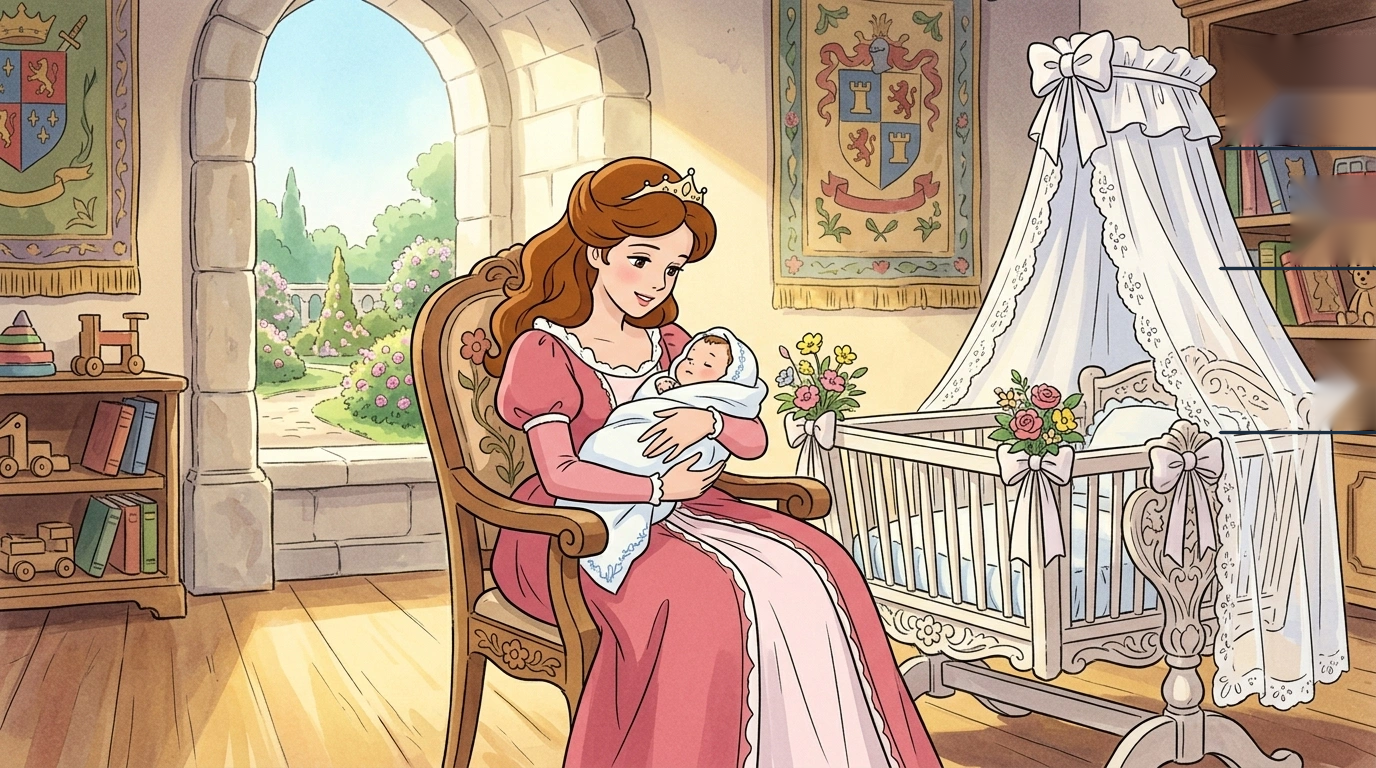
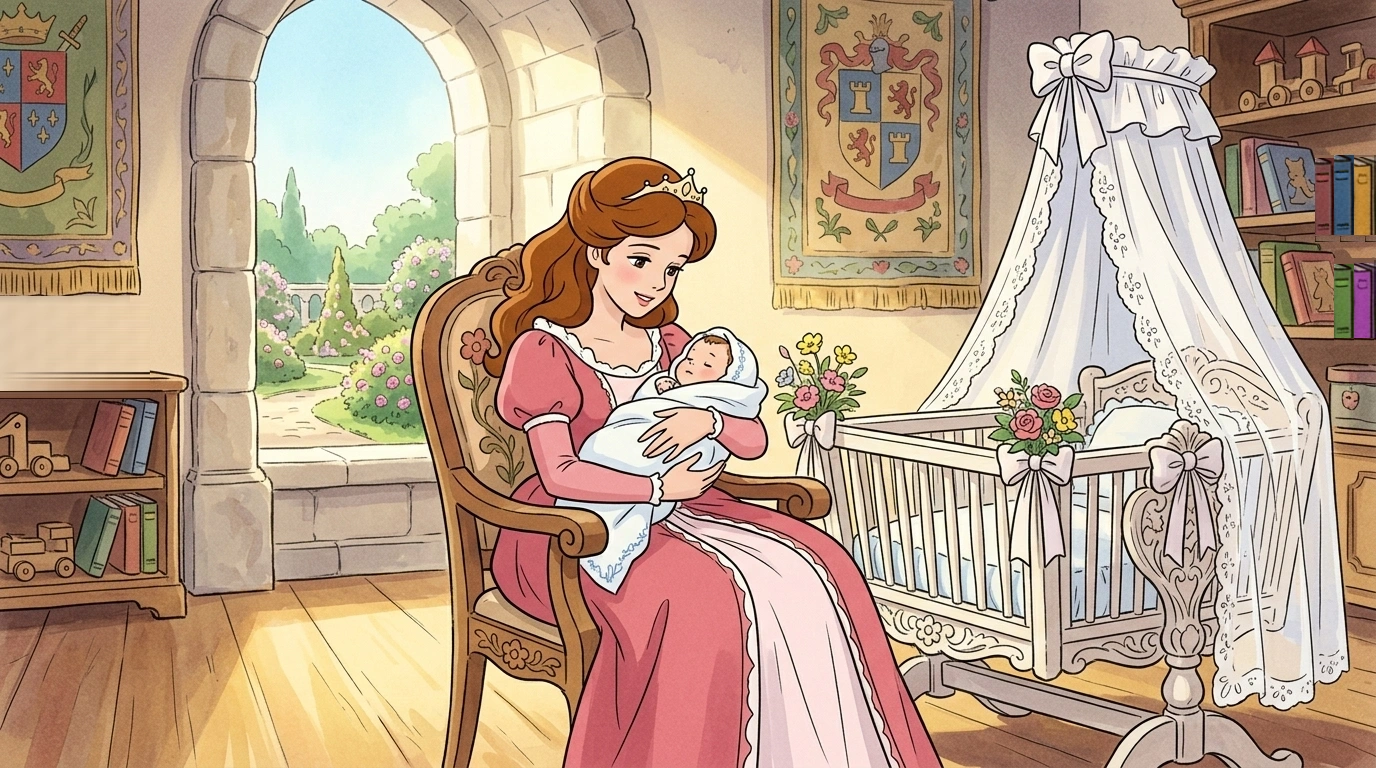
fix(rumpelstiltskin): replace modern toys in 05-promise-2 with antique leatherbound books and clean medieval nursery shelves

Changed region(s): [[0.875, 0.0312, 1.0, 0.5938], [0.0, 0.375, 0.125, 0.5312]]

diff --git a/learning/literacy-numeracy/story-books/world-tales/rumpelstiltskin/IMAGE-PROMPTS.md b/learning/literacy-numeracy/story-books/world-tales/rumpelstiltskin/IMAGE-PROMPTS.md
@@ -83,7 +83,7 @@ drawn as comical and sly, never scary. A messenger: a lanky man with muddy boots
 | 파일명 | 장면 |
 |---|---|
 | `images/05-promise.webp` | A vast straw-filled hall at night where a tiny man holds out his hand slyly and a girl hesitates with her own hand half raised, torchlight and long shadows, heavy and quiet. 〔이 쪽에 실린 글 (9/16) — 그림에 글자는 넣지 마세요. 왼쪽: 작은 남자가 또 나타났습니다. 이번에는 여느 때보다 느긋해 보였지요. 남자가 손을 척 내밀었습니다. 이번에는 무엇을 주시겠습니까? / 오른쪽: 남자는 턱을 쓰다듬으며 생각했습니다. 그러고는 눈을 반짝였지요. 그럼 이렇게 하지요. 왕비가 된 뒤 첫아이를 주십시오.〕 |
-| `images/05-promise-2.webp` | A wedding celebration in a castle courtyard with banners and crowds, and later a queen holding a newborn baby in a sunlit nursery, joyful but with a shadow of worry. 〔이 쪽에 실린 글 (10/16) — 그림에 글자는 넣지 마세요. 왼쪽: 작은 남자는 밤새 물레를 돌렸습니다. 아침이 되자 창고가 온통 금빛이었지요. 임금님은 약속한 대로 딸을 왕비로 삼았습니다. 온 나라에 잔치가 벌어졌지요. 방앗간 주인은 어깨가 으쓱했습니다. 왕비는 겉으로는 웃었지만 마음이 무거웠지요. / 오른쪽: 그날 밤 한 약속이 자꾸 떠올랐습니다. 그래도 시간이 지나자 차츰 잊고 지냈지요. 한 해가 가고 또 한 해가 갔습니다. 왕비는 예쁜 아이를 낳았습니다. 온 궁궐이 들썩였지요. 요람 곁에 꽃이 가득 놓였습니다.〕 |
+| `images/05-promise-2.webp` | MUST MATCH the authentic 1980s cel-animation storybook style. Left: A wedding celebration in a castle courtyard with banners and crowds. Right: A sunlit royal medieval nursery where the queen holds a newborn baby beside an ornate cradle and neat antique wooden bookcases filled with leather-bound period books and scrolls. STRICTLY NO modern toys (NO plastic rainbow stacking rings, NO modern toy cars/trucks/tractors, NO modern plush teddy bears). All furniture and shelves must be crisp, sharp, period-appropriate medieval woodwork. 〔이 쪽에 실린 글 (10/16) — 그림에 글자는 넣지 마세요. 왼쪽: 작은 남자는 밤새 물레를 돌렸습니다. 아침이 되자 창고가 온통 금빛이었지요. 임금님은 약속한 대로 딸을 왕비로 삼았습니다. 온 나라에 잔치가 벌어졌지요. 방앗간 주인은 어깨가 으쓱했습니다. 왕비는 겉으로는 웃었지만 마음이 무거웠지요. / 오른쪽: 그날 밤 한 약속이 자꾸 떠올랐습니다. 그래도 시간이 지나자 차츰 잊고 지냈지요. 한 해가 가고 또 한 해가 갔습니다. 왕비는 예쁜 아이를 낳았습니다. 온 궁궐이 들썩였지요. 요람 곁에 꽃이 가득 놓였습니다.〕 |
 
 ## 6장 · 찾아온 약속
 
